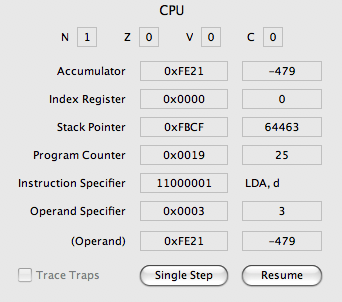
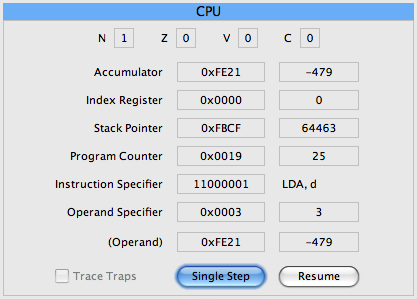
Screenshot update to reflect our new features. Slightly larger default window size, and a OSX window management fix (it kept moving the window up the screen between launches).
git-svn-id: http://pep8-1.googlecode.com/svn/trunk@329 0efa5a84-20a4-11de-9909-f37ff7dbbc12

diff --git a/help/debuggingprograms.html b/help/debuggingprograms.html
@@ -73,7 +73,7 @@ which will execute one von Neumann cycle of the CPU.
  The CPU pane shows you the values of the NZVC bits and of each register in the CPU.
  The following screenshot shows the CPU pane after one click of the Single Step button for the object program from Figure 4.34.
 <p>
-<img src="qrc:/help/images/fig0434cpupane.png" alt="fig0434cpupane" hspace=10 vspace=10>
+<img src="qrc:/help/images/fig0434cpu.png" alt="fig0434cpupane" hspace=10 vspace=10>
 <p>
 The CPU pane displays the content of the accumulator, index register, stack pointer, and program counter first in hexadecimal and
 then in decimal.

diff --git a/help/writingprograms.html b/help/writingprograms.html
@@ -42,7 +42,7 @@ of its label at the top of the pane.
 If you double click on the label the pane will expand to its maximum height.
 The following screenshot shows the label at the top of the Source Code pane in the code panel.
 <p>
-<i>Screenshot</i>
+<img src="qrc:/help/images/sourcecode.png" alt="viewicon" hspace=10 vspace=10>
 <p>
 
 <h3><a name="Input">Input and output</a></h3>

diff --git a/mainwindow.cpp b/mainwindow.cpp
@@ -208,8 +208,11 @@ bool MainWindow::saveObject()
 void MainWindow::readSettings()
 {
     QSettings settings("Pep8", "MainWindow");
-    QPoint pos = settings.value("pos", QPoint(200, 200)).toPoint();
-    QSize size = settings.value("size", QSize(800, 800)).toSize();
+    QPoint pos = settings.value("pos", QPoint(0, 0)).toPoint();
+    QSize size = settings.value("size", QSize(1000, 700)).toSize();
+    if (Pep::getSystem() == "Mac") {
+        pos.setY(pos.y() + 20); // Every time the app launches, it seems OSX moves the window 20 pixels up the screen, so we compensate here.
+    }
     resize(size);
     move(pos);
     curPath = settings.value("filePath", QDir::homePath()).toString();
